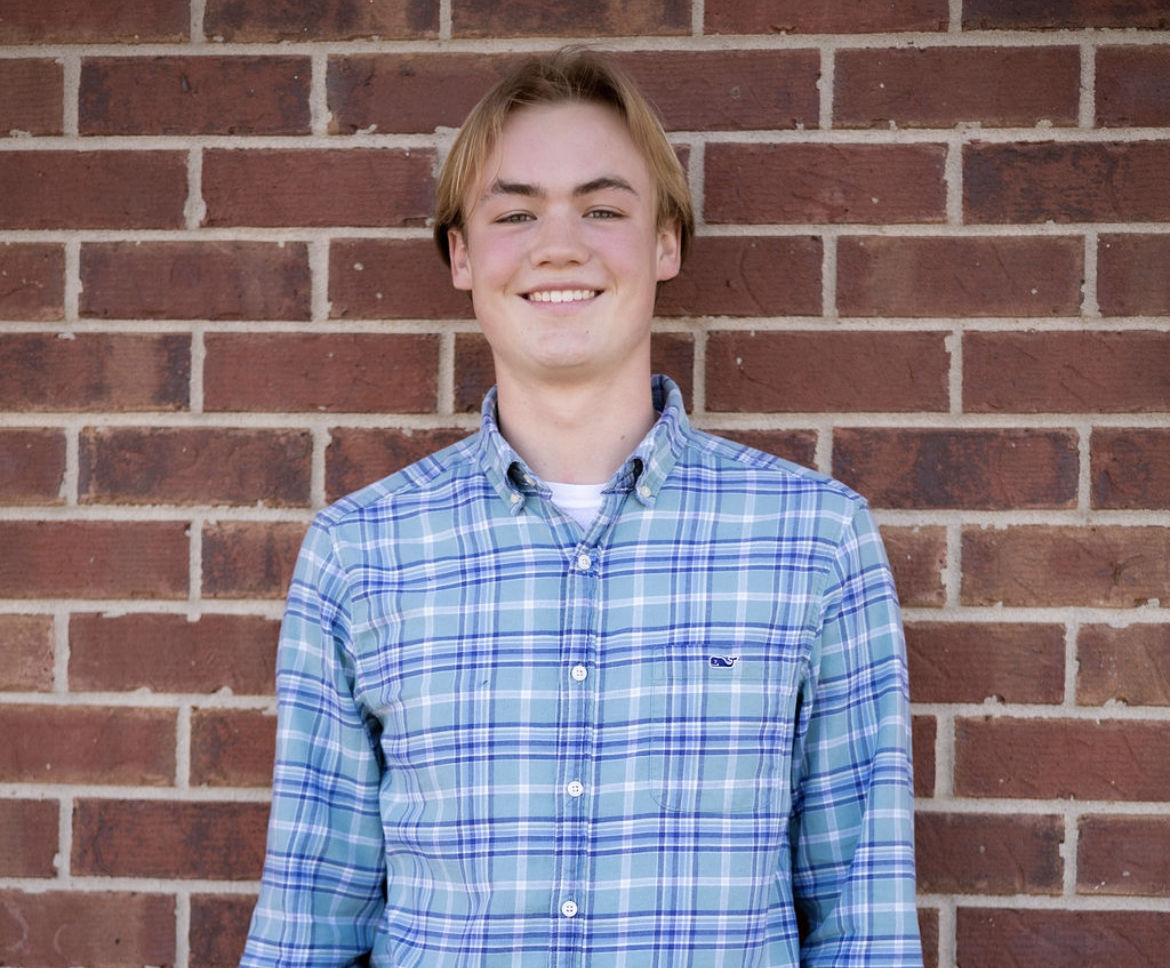
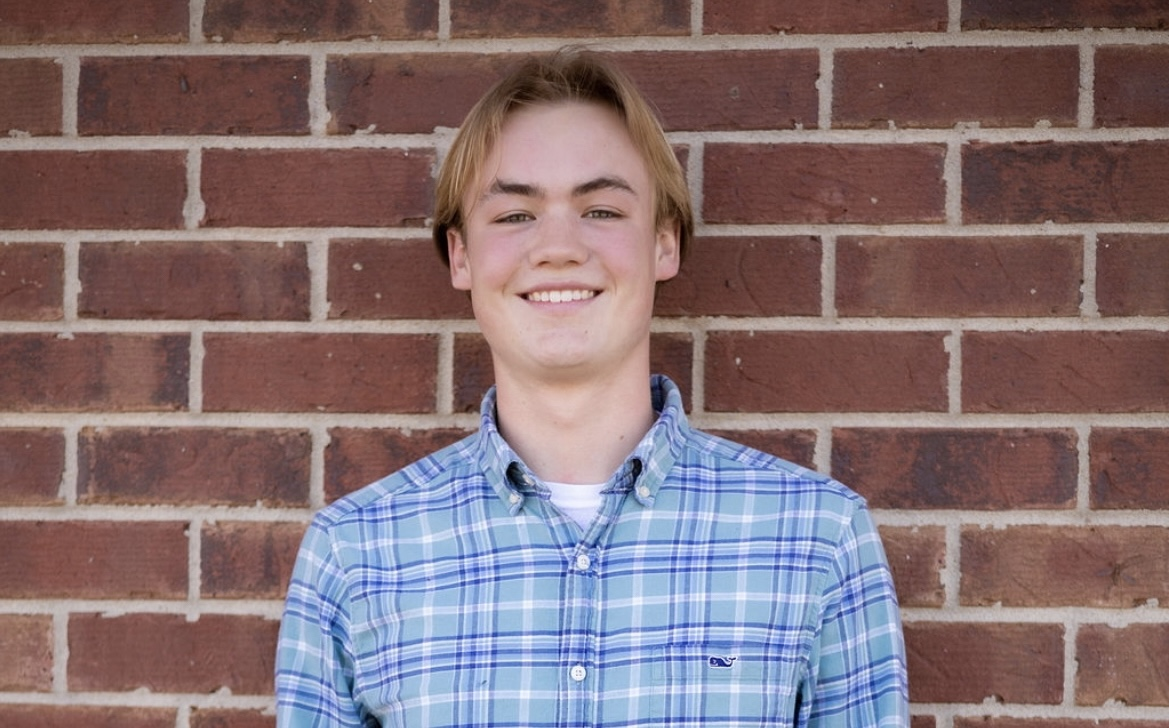
Add css styling to header and intro section
Replace image with image with better dimensions. Use flexbox to
align all elements. Add background color and format fonts. Create
styling for buttons.

diff --git a/index.html b/index.html
@@ -10,23 +10,23 @@
 <body>
     <div class="top">
         <div class="header">
-            <div>Header Logo</div>
+            <div class="logo">Header Logo</div>
             <div class="top-links">
-                <div>header link one</div>
-                <div>header link two</div>
-                <div>header link three</div>
+                <a href="index.html">header link one</a>
+                <a href="index.html">header link two</a>
+                <a href="index.html">header link three</a>
             </div>
         </div>
         <div class="intro">
             <div class="intro-blob">
-                <div>This website is awesome</div>
-                <div> 
-                    This webiste has some subtext that goes under the main title. It's 
+                <div class="big">This website is awesome</div>
+                <div class="secondary"> 
+                    This website has some subtext that goes under the main title. It's 
                     a smaller font and is lower contrast.
                 </div>
-                <button clas="sign-up first-button">Sign up</button>
+                <button class="sign-up">Sign up</button>
             </div>
-            <img src="Images/IMG_0485.jpg" height="150px" width="200px">
+            <img src="Images/IMG_0485.jpg" width="350px">
         </div>
     </div>
     <div class="info">

diff --git a/style.css b/style.css
@@ -1,0 +1,77 @@
+body {
+    display: flex;
+    flex-direction: column;
+    margin: 0;
+    font-family: -apple-system, BlinkMacSystemFont, 'Segoe UI', Roboto, Oxygen, Ubuntu, Cantarell, 'Open Sans', 'Helvetica Neue', sans-serif;
+}
+
+a {
+    text-decoration: none;
+    color: #E5E7EB;
+}
+
+.top,
+.info,
+.quote,
+.action,
+.footer {
+    display: flex;
+    flex-direction: column;
+    padding: 0 18%;
+    flex: 1;
+}
+
+.top {
+    background-color: #1F2937;
+    color: #F9FAF8;
+    padding-bottom: 100px;
+    padding-top: 20px;
+}
+
+.header {
+    display: flex;
+    justify-content: space-between;
+    align-items: center;
+    margin-bottom: 30px;
+}
+
+.top-links {
+    display: flex;
+    gap: 15px;
+}
+
+.intro {
+    display: flex;
+    margin-top: 32px;
+    justify-content: space-between;
+}
+
+.intro-blob {
+    width: 400px;
+}
+
+.sign-up {
+    background-color: #3882f9;
+    color: #F9FAF8;
+    border: none;
+    box-shadow: none;
+    border-radius: 8px;
+    padding: 6px 26px;
+    margin-top: 9px;
+    font-weight: 800;
+}
+
+.big {
+    font-size: 48px;
+    font-weight: 1000;
+}
+
+.logo {
+   font-size: 24px; 
+}
+
+.top-links,
+.secondary {
+    font-size: 18px;
+    color: #E5E7EB;
+}
